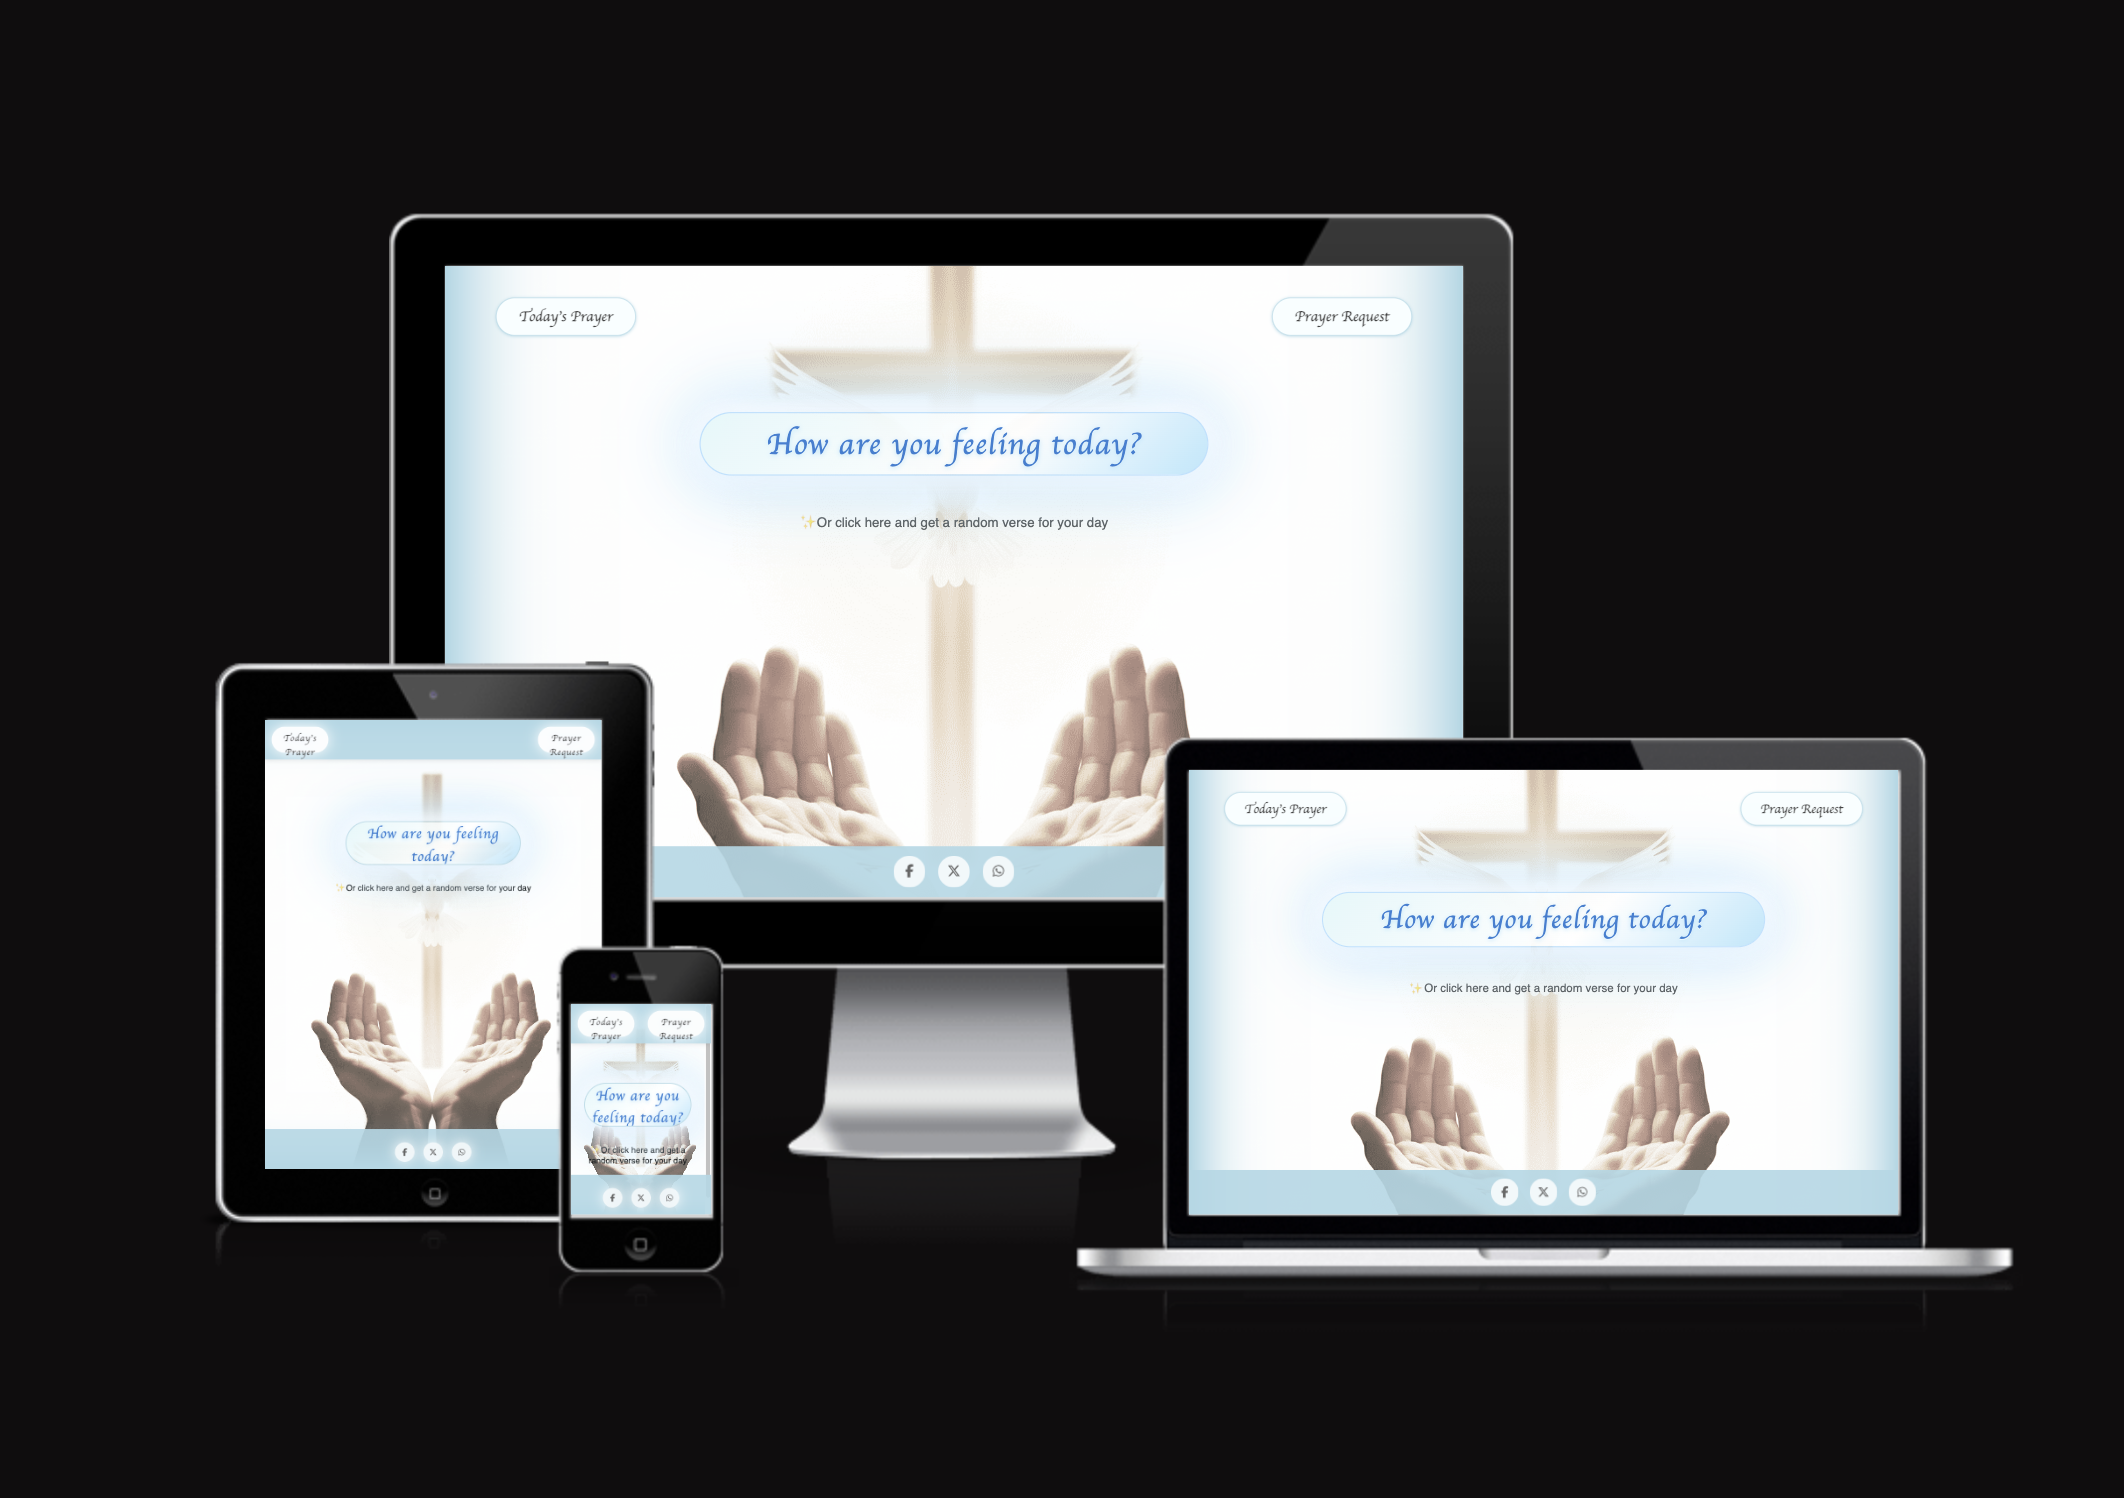
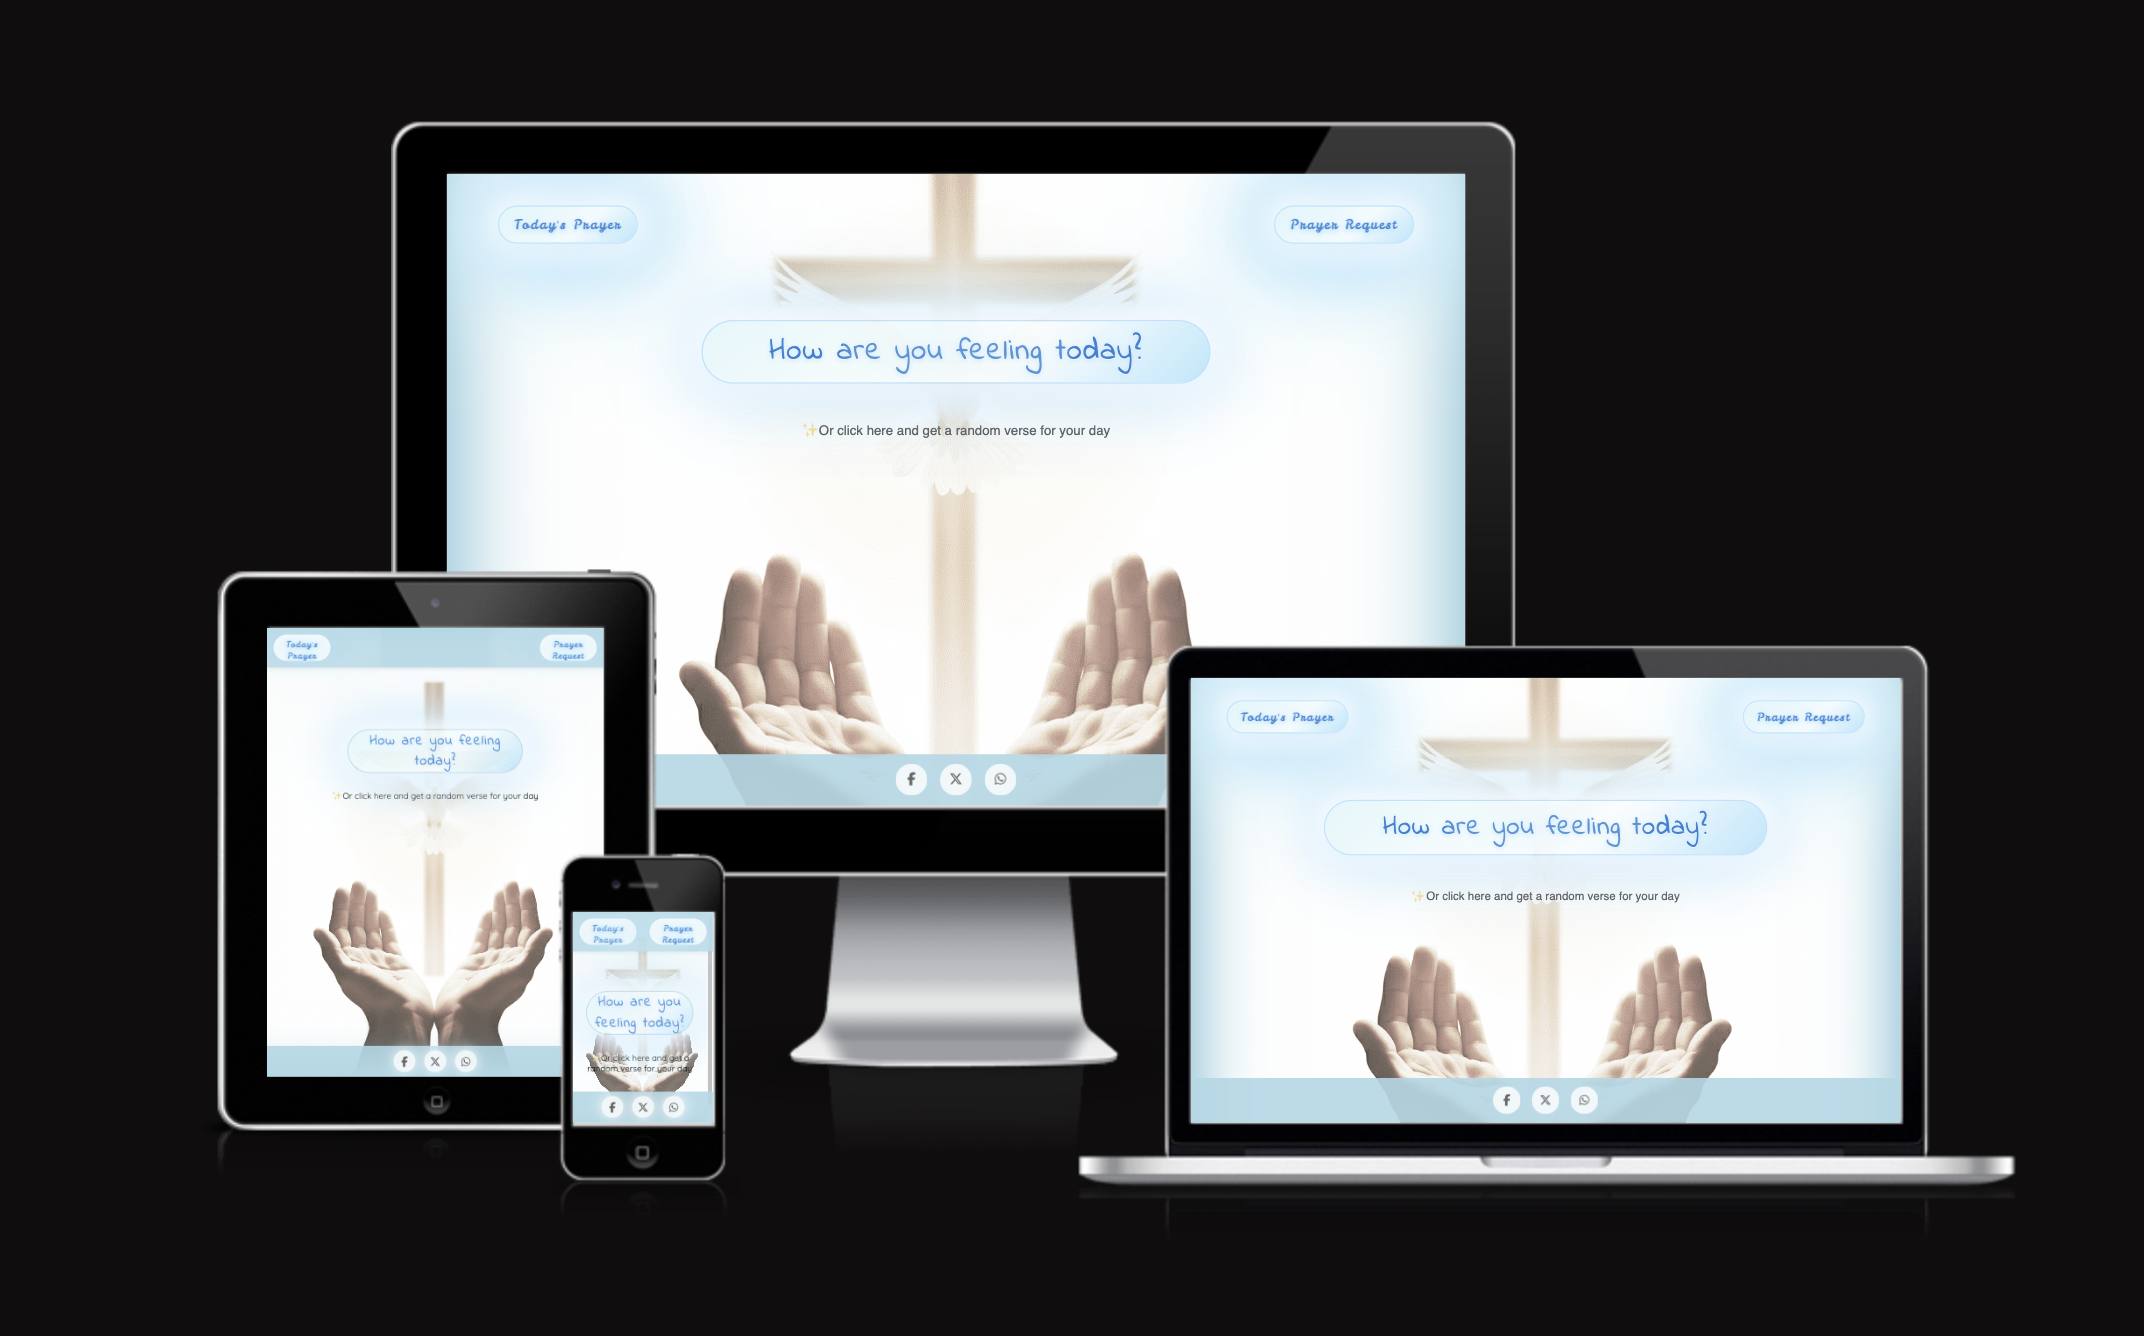
docs: Update responsiveness proof and finalize documentation

Changed region(s): [[0.0932, 0.0921, 0.9633, 0.89], [0.1554, 0.5524, 0.2486, 0.6138]]

diff --git a/style.css b/style.css
@@ -422,7 +422,7 @@ main,
   }
   #prayer-btn,
   #daily-prayer-btn {
-    font-family: "Courier New", Courier, monospace;
+    font-family: "Leckerli One", cursive;
     font-size: 1.1em;
     position: absolute;
     top: 15px;

diff --git a/README.md b/README.md
@@ -272,7 +272,6 @@ To help users build a consistent spiritual habit, a subscription feature (via em
 - Popups tested to open and close without issues.  
 - Layout tested on Chrome, Safari, and mobile devices.  
 
-
 ## Validator Testing
 To ensure the highest quality, the project's code and performance were rigorously tested using official industry-standard tools.
 
@@ -300,8 +299,6 @@ To ensure the highest quality, the project's code and performance were rigorousl
 | Prayer Request | Click "Prayer Request" button. | A modal window with a form appears. The form validates input and shows a confirmation upon sending. |
 | Social Sharing | Click on Facebook, X, or WhatsApp icons. | A new tab opens with the corresponding social media sharing dialogue pre-populated with the site's link. |
 | Responsiveness | Resize the browser window from desktop to mobile size. | The layout adjusts smoothly, with elements stacking correctly and the feelings grid changing from flex to a 2-column grid. |
-
-
 
 ---
 
@@ -360,6 +357,35 @@ The site was deployed using **GitHub Pages**:
 5. Save, and GitHub will provide a deployment link.  
 
 👉 Live Project: [The Word of God](https://oliveiracle.github.io/secondproject-the-word-of-god/)  
+
+---
+
+#### Bugs and Fixes
+No major bugs were found during the final testing phase that remain unfixed. However, several challenges were identified and resolved during the development process to ensure a stable and professional user experience.
+
+**Responsive Layout Inconsistency:**
+
+**Bug:** On mobile devices, the feelings button grid would sometimes display as a single column instead of the intended two-column layout.
+
+**Fix:** The issue was caused by a conflict between a display: flex rule in the JavaScript and a display: grid rule in the CSS media queries. The JavaScript was refactored to use classList.toggle() to add or remove a .is-visible class, giving the CSS full control over the layout and ensuring the two-column grid is always applied correctly on smaller screens.
+
+**Unresponsive Main CTA:**
+
+**Bug:** On desktop, after a user selected a feeling and a verse was displayed, the main "How are you feeling today?" button would become unresponsive and could not be clicked again to restart the flow.
+
+**Fix:** The JavaScript function toggleFeelingsContainer() was updated to always hide the verse display (verseDisplay.style.display = "none") before showing the feelings grid. This "resets" the UI state and ensures the button is always functional.
+
+**Content Overlap on Mobile:**
+
+**Bug:** On smaller screens, the main content would scroll underneath the new fixed mobile header, causing visual overlap.
+
+**Fix:** A padding-top with the same height as the header was added to the .main-container within the media query for mobile devices. This creates a "safe area" that pushes all content down, preventing any overlap.
+
+**Automatic Scrolling on Mobile:**
+
+**Bug:** After selecting a feeling on a mobile device, the verse would appear off-screen at the bottom of the page, forcing the user to scroll down manually to see the result of their action.
+
+**Fix:** The scrollIntoView({ behavior: 'smooth', block: 'center' }) method was added to the JavaScript functions that display the verse. This automatically and smoothly scrolls the page to center the verse on the screen, creating a much better user experience.
 
 ---
 
